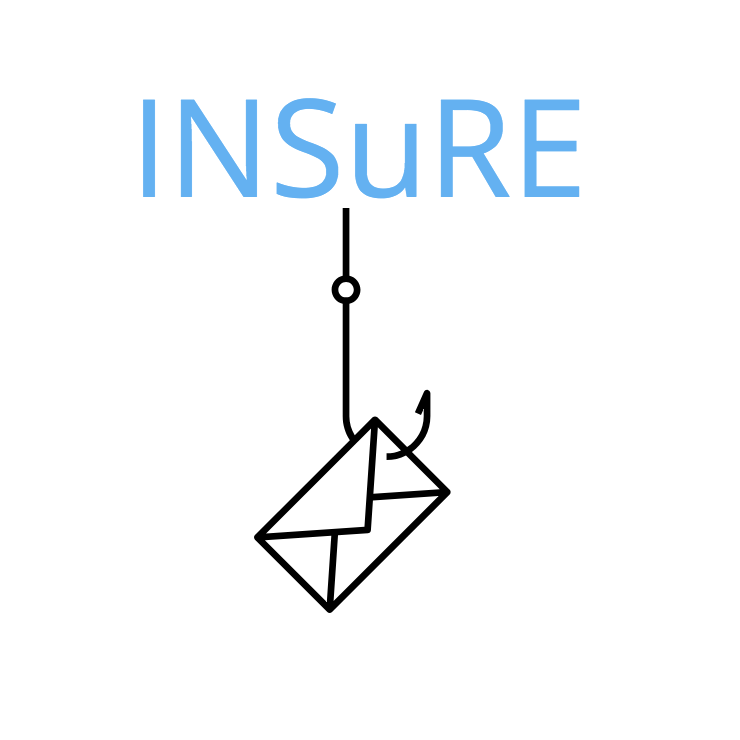
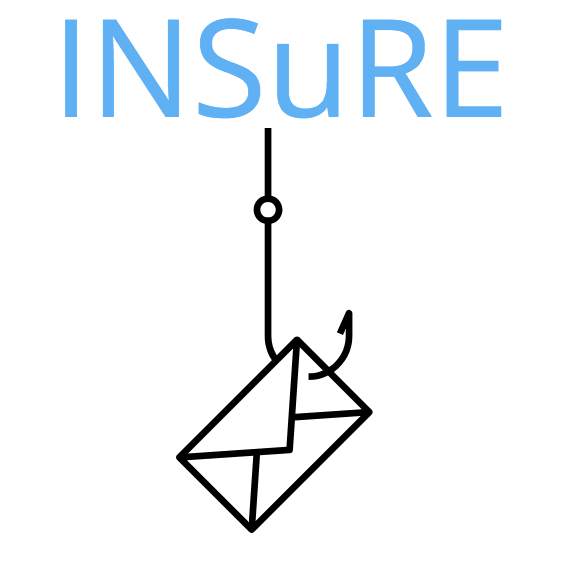
Updating version to 2.0.
* Updating to version 2.0
* Adding cropped version of icon and mini version for Chrome Web Store.

diff --git a/CHANGELOG.md b/CHANGELOG.md
@@ -113,3 +113,5 @@
 	* We then have access to all threats, threat type, and the associated link in our analysis function.
 * Found a bug where the URL listener wasn't firing for emails with specific labels (eg. the Promotions label in Gmail).
 	* Identified that the Regex was not matching, so I updated the Regex so it will trigger for these URL formats as well.
+* Updating to version 2.0
+* Adding cropped version of icon and mini version for Chrome Web Store.
